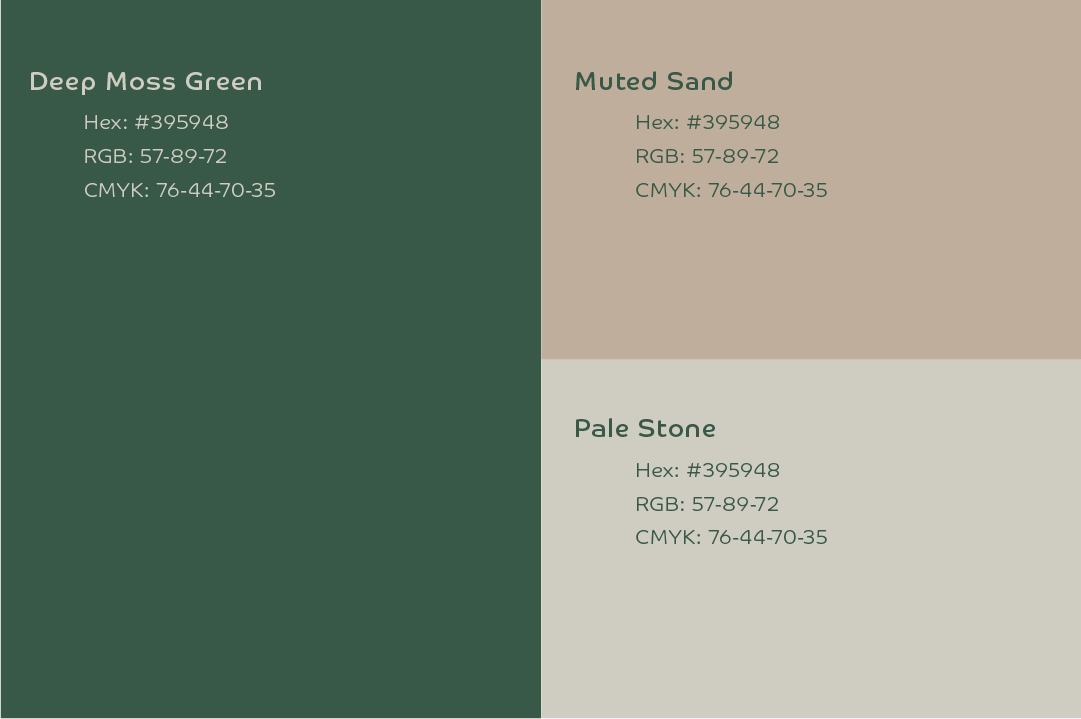
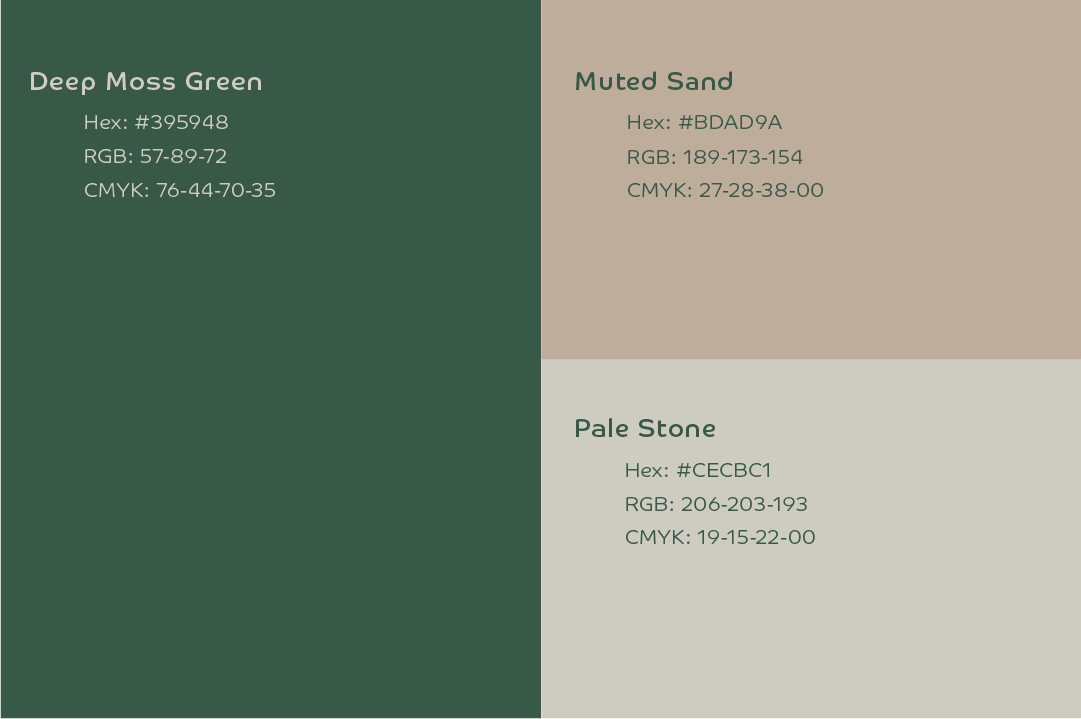
SEO Adjustment

Changed region(s): [[0.58, 0.6426, 0.7632, 0.765], [0.58, 0.153, 0.7632, 0.2754]]

diff --git a/src/data/projects.ts b/src/data/projects.ts
@@ -152,7 +152,7 @@ const projects: Project[] = [
     services: ["Logo/Brand Identity", "UI/UX Design"],
     description:
       "Collin Candy is a vibrant and joyful candy and ice cream shop that brings a splash of color and a sense of fun to every visit. The brand is all about creating delightful experiences, with a playful and friendly atmosphere that appeals to both children and adults. At the heart of Collin Candy is our charming cartoon mascot, Colin, who embodies the spirit of joy and excitement that we aim to deliver. From the eye-catching packaging to our whimsical in-store displays, every aspect of Collin Candy is designed to make you smile. With a wide variety of delectable candies and creamy ice creams, we offer a sweet escape that is as memorable as it is delicious.",
-    date: "August 2024",
+    date: "August 2023",
     thumbnail: "/images/projects/collin-candy/collin-candy_thumbnail.png",
     audience:
       "Children aged 5-12 and their parents, Teenagers and young adults who enjoy candy and ice cream.",
@@ -189,11 +189,11 @@ const projects: Project[] = [
     name: "Trip Global",
     services: ["Logo/Brand Identity", "UI/UX Design"],
     description:
-      "Trip Global is a premier provider of high-quality fly fishing equipment, dedicated to serving passionate anglers across the globe. Built on a foundation of excellence, innovation, and sustainability, Trip Global is more than a gear brand—it’s a gateway to unforgettable fishing experiences. Our mission is to elevate the standards of performance and reliability in the fly fishing industry while remaining deeply connected to nature and our community of outdoor enthusiasts.",
-    date: "November 2022",
+      "Trip Global is a specialized brand offering high-quality fly fishing gear and outdoor apparel crafted for dedicated anglers and nature lovers. The project aimed to develop a brand identity that reflects the ruggedness and authenticity of the outdoors while appealing to an adventurous, discerning audience. The identity needed to communicate trust, durability, and a deep connection with nature.",
+    date: "November 2023",
     thumbnail: "/images/projects/trip-global/trip-global_thumbnail.png",
     audience:
-      "Children aged 5-12 and their parents, Teenagers and young adults who enjoy candy and ice cream.",
+      "Primarily adults aged 25 to 55 — mature enough to have disposable income for quality gear but still active and adventurous. Mostly male, as fly fishing traditionally attracts more men, but inclusive of female anglers and outdoor enthusiasts as well.",
     sections: [
       {
         images: [
@@ -204,7 +204,7 @@ const projects: Project[] = [
         ],
         subTitle: "Design Concept",
         title:
-          "Trip Global is a premier provider of high-quality fly fishing equipment, dedicated to serving passionate anglers across the globe. Built on a foundation of excellence, innovation, and sustainability, Trip Global is more than a gear brand—it’s a gateway to unforgettable fishing experiences. Our mission is to elevate the standards of performance and reliability in the fly fishing industry while remaining deeply connected to nature and our community of outdoor enthusiasts.",
+          "The design concept captures the harmony between the calmness of nature and the thrill of the fishing experience. It draws inspiration from organic shapes and natural textures, creating a visual narrative that is both grounded and dynamic. The branding balances a handcrafted feel with modern simplicity, emphasizing precision and expertise without sacrificing approachability.",
       },
       {
         images: [
@@ -213,7 +213,7 @@ const projects: Project[] = [
         ],
         subTitle: "Type & Color",
         title:
-          "The visual identity of Trip Global is deeply rooted in the natural world. The typeface is clean, confident, and contemporary, chosen to reflect clarity, trust, and refined craftsmanship. The color palette enhances the brand’s storytelling, drawing directly from landscapes and experiences tied to the outdoors: Jordan Blue evokes openness and freedom, capturing the wide skies and vast waters fly fishers embrace. Navy Blue brings depth and authority, grounding the brand in strength, professionalism, and trust. Glade Green adds vibrancy and life, symbolizing growth, vitality, and harmony with nature. Mineral Green furthers this connection to the earth, promoting renewal and a deep sense of natural immersion. Together, these elements create a cohesive visual language that embodies the essence of Trip Global—elevated, adventurous, and authentically connected to the world of fly fishing.",
+          "The typography and color choices work together to evoke a sense of reliability and warmth while maintaining a clean, contemporary look. The typography combines strength with readability, ensuring the brand feels both professional and accessible. The color palette is inspired by natural environments, using muted, earthy tones that convey stability, warmth, and balance—creating an inviting yet sophisticated atmosphere.",
       },
       {
         images: [
@@ -222,6 +222,9 @@ const projects: Project[] = [
           "/images/projects/trip-global/trip-global_3-3.png",
           "/images/projects/trip-global/trip-global_3-4.png",
         ],
+        subTitle: "Finalization",
+        title:
+          "The final brand identity includes a versatile logo adaptable across various applications, a harmonious color system that ensures consistency, and carefully crafted patterns and visual elements that reinforce the brand’s connection to nature and craftsmanship. Mockups demonstrate the identity applied to products, packaging, and digital platforms, showcasing the brand’s readiness to engage its audience authentically and effectively.",
       },
     ],
   },

diff --git a/src/app/portfolio/[id]/page.tsx b/src/app/portfolio/[id]/page.tsx
@@ -2,30 +2,46 @@ import EvanderButton from "@/components/shared/EvanderButton";
 import Section from "@/components/shared/Section";
 import { getProjectById } from "@/data/projects";
 import { ArrowRight, ArrowUpRight } from "lucide-react";
+import { Metadata } from "next";
 import Image from "next/image";
 import { notFound } from "next/navigation";
 
 type ProjectPageProps = Promise<{ id: string }>;
 
-// export async function generateMetadata({
-//   params,
-// }: {
-//   params: { id: string };
-// }): Promise<Metadata> {
-//   const { id } = await params;
-//   const project = await getProjectById(Number(id));
+export async function generateMetadata({
+  params,
+}: {
+  params: { id: string };
+}): Promise<Metadata> {
+  const { id } = await params;
+  const project = await getProjectById(Number(id));
 
-//   if (!project) {
-//     return {
-//       title: "Project Not Found",
-//     };
-//   }
+  if (!project) {
+    return {
+      title: "Project Not Found",
+    };
+  }
 
-//   return {
-//     title: project.name,
-//     description: project.description,
-//   };
-// }
+  return {
+    title: `Evander Creative Studio | ${project.name}`,
+    description: project.description,
+    openGraph: {
+      title: `Evander Creative Studio | ${project.name}`,
+      description: project.description,
+      url: `https://evandercs.vercel.app/${id}`,
+      images: [
+        {
+          url: project.thumbnail,
+          width: 300,
+          height: 400,
+          alt: "Evander Creative Studio Project Thumbnail",
+        },
+      ],
+      locale: "en_US",
+      type: "website",
+    },
+  };
+}
 
 const ProjectPage = async ({ params }: { params: ProjectPageProps }) => {
   const { id } = await params;

diff --git a/src/app/layout.tsx b/src/app/layout.tsx
@@ -34,32 +34,26 @@ export const metadata: Metadata = {
     "Web Development",
     "Evander Creative Studio",
   ],
-  authors: [{ name: "Evander Creative Studio", url: "https://yourdomain.com" }],
-  metadataBase: new URL("https://yourdomain.com"),
+  authors: [
+    { name: "Evander Creative Studio", url: "https://evandercs.vercel.app/" },
+  ],
+  metadataBase: new URL("https://evandercs.vercel.app/"),
   openGraph: {
     title: "Evander Creative Studio | Branding & Software Solutions",
     description:
       "Evander Creative Studio crafts impactful brand identities & software solutions. From UI/UX to development, we merge creativity with strategy to help businesses stand out.",
-    url: "https://yourdomain.com",
+    url: "https://evandercs.vercel.app/",
     siteName: "Evander Creative Studio",
     images: [
       {
-        url: "/og-image.jpg", // Update with actual OpenGraph image
-        width: 1200,
-        height: 630,
-        alt: "Evander Creative Studio Banner",
+        url: "/images/seo-banner.png",
+        width: 800,
+        height: 800,
+        alt: "Evander Creative Studio",
       },
     ],
     locale: "en_US",
     type: "website",
-  },
-  twitter: {
-    card: "summary_large_image",
-    title: "Evander Creative Studio | Branding & Software Solutions",
-    description:
-      "Evander Creative Studio crafts impactful brand identities & software solutions. From UI/UX to development, we merge creativity with strategy to help businesses stand out.",
-    images: ["/twitter-image.jpg"], // Update with actual Twitter image
-    creator: "@EvanderStudio", // Update with your Twitter handle
   },
   icons: {
     icon: "/favicon.ico",
